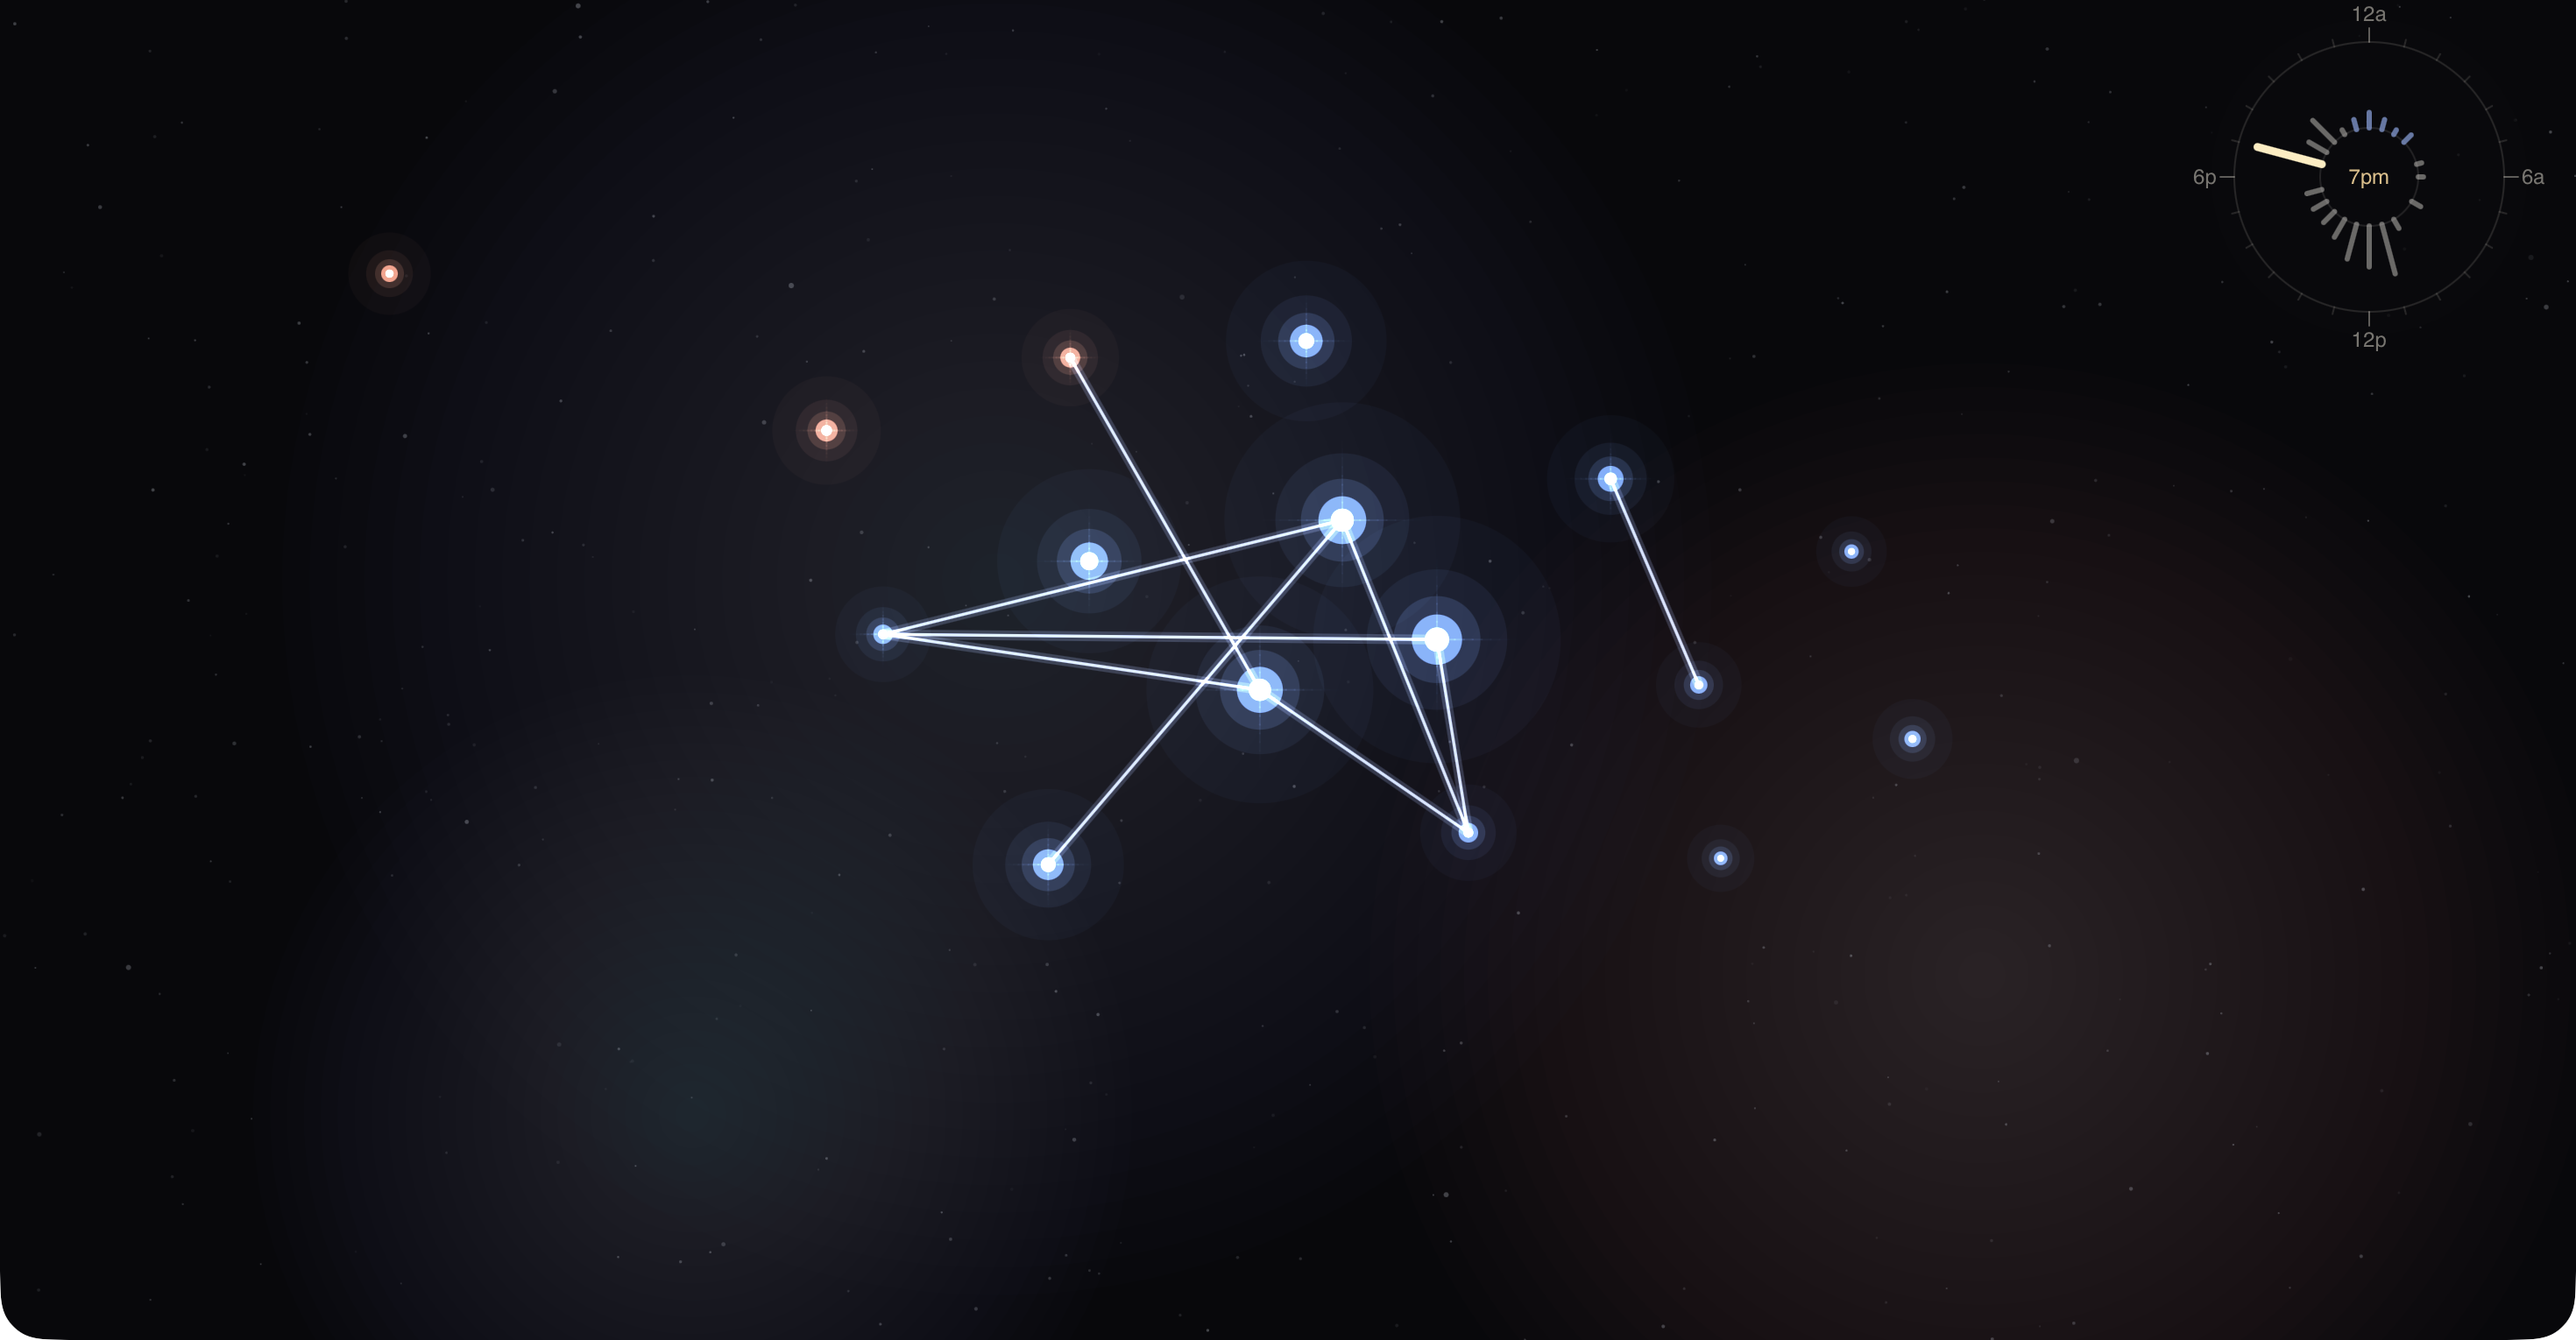
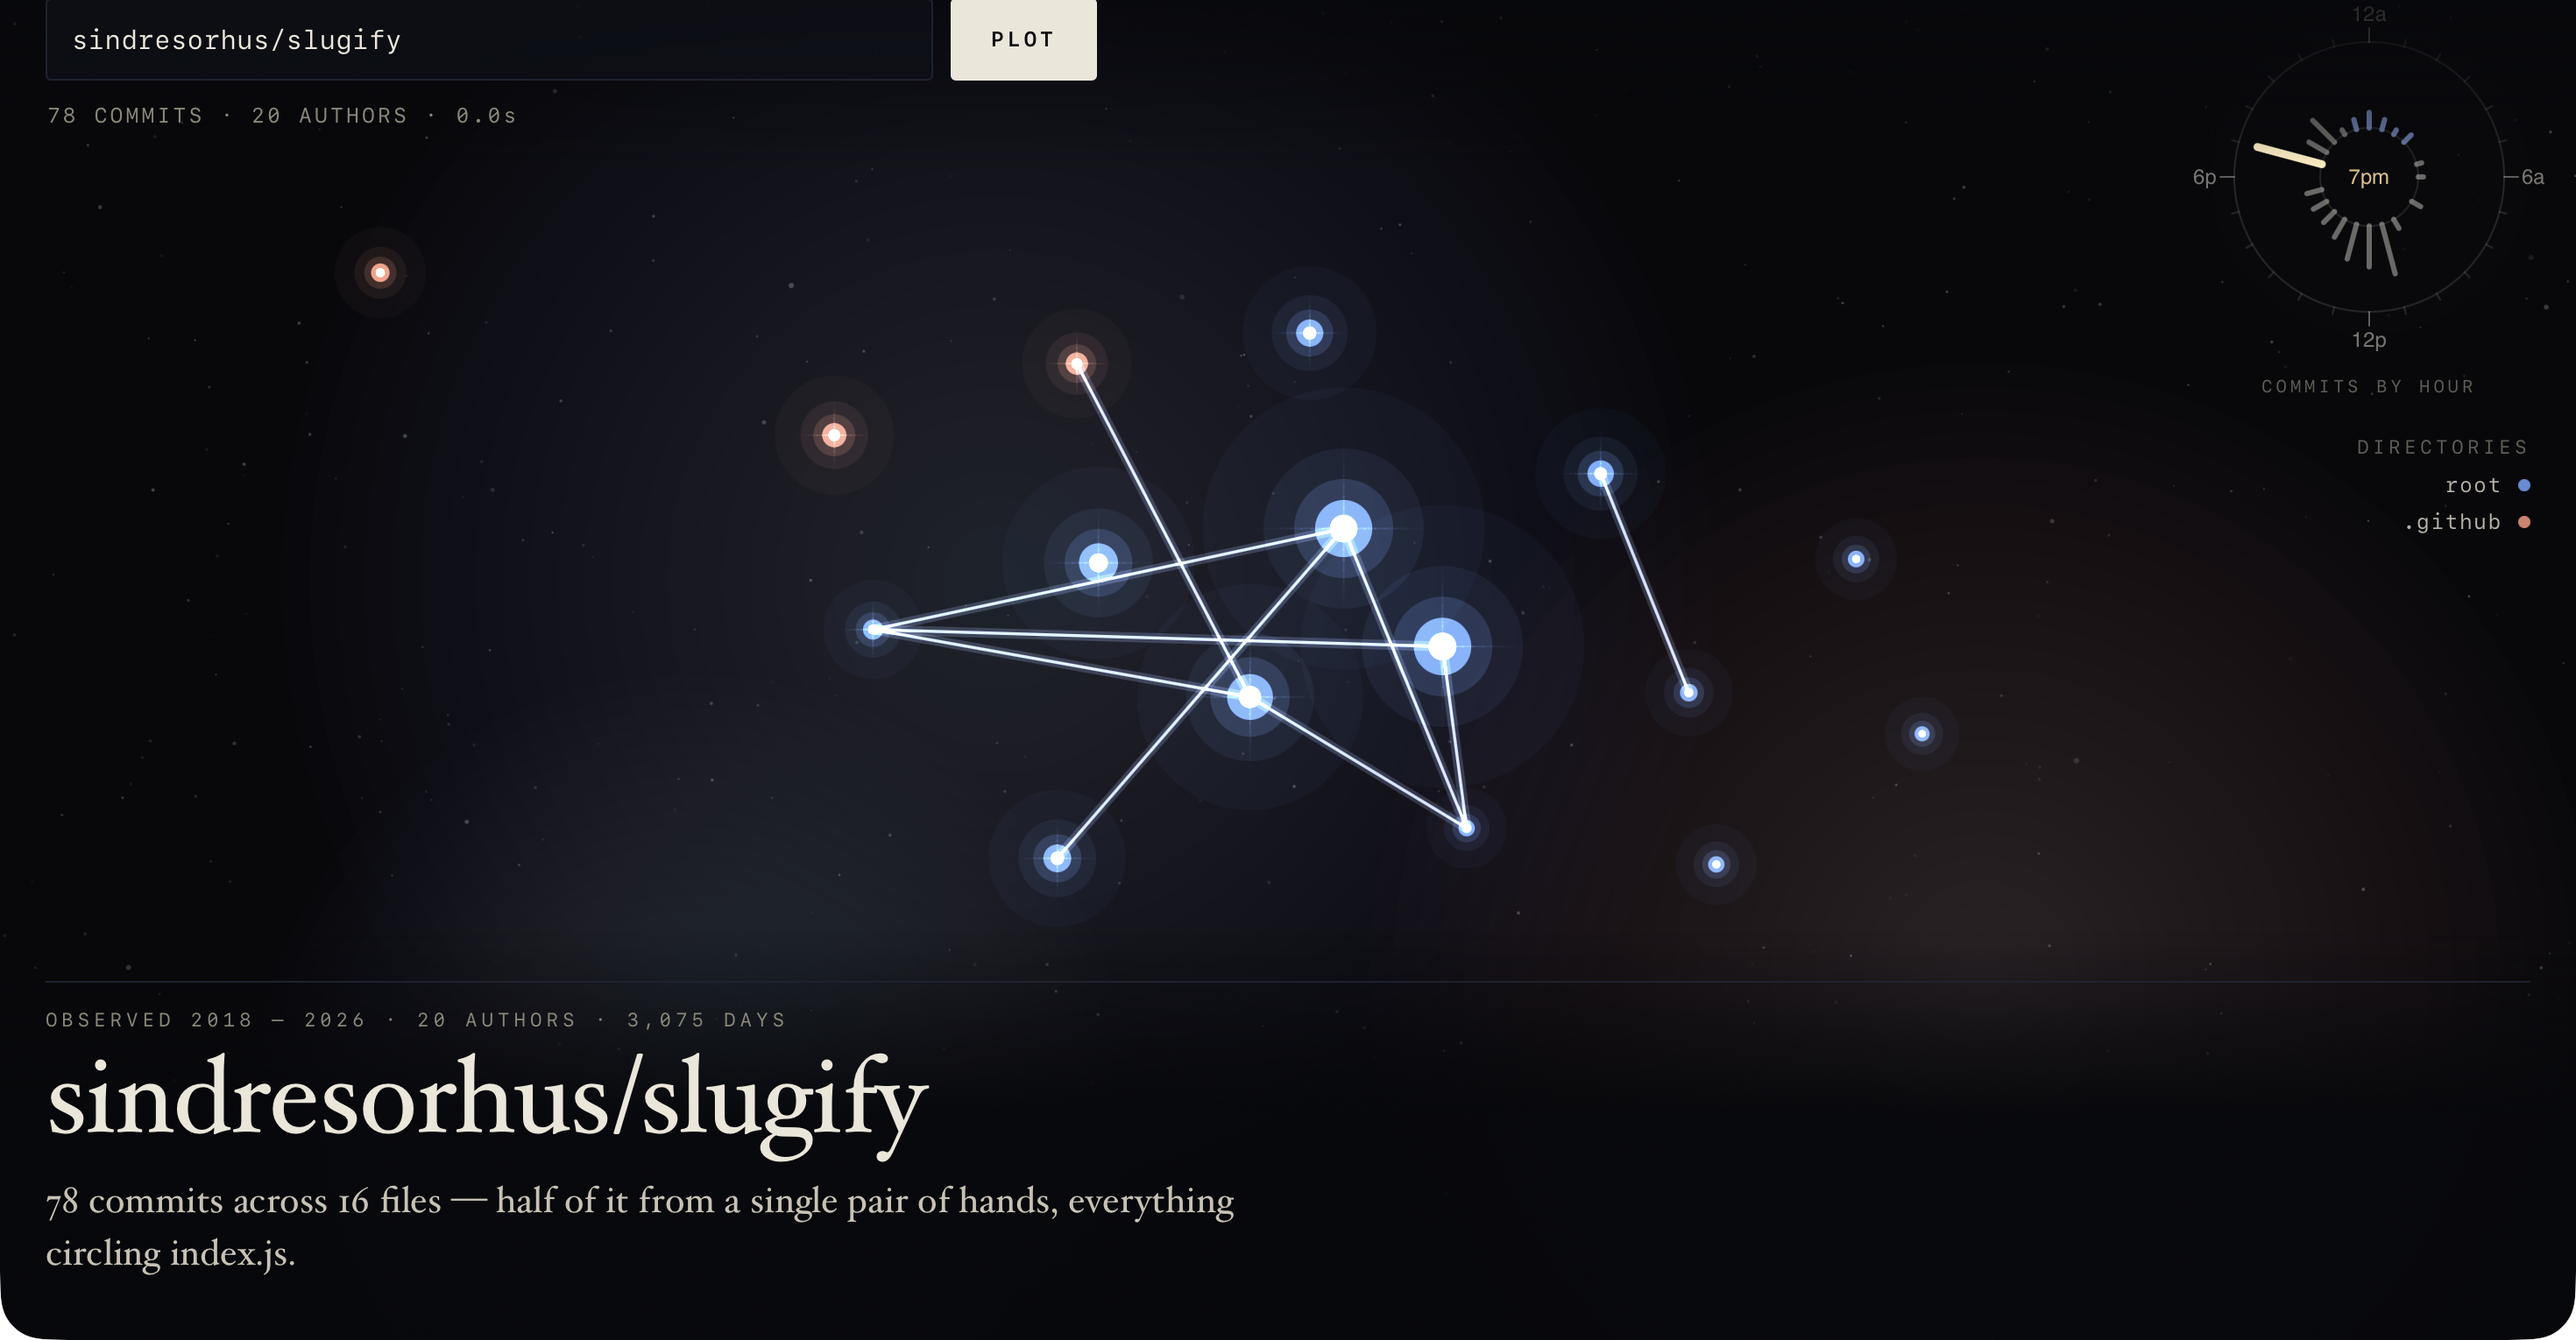
Fix the blank page, the raw git errors, and the narrow-window blob
A pass through the whole thing as a user rather than as its author.

Blank page on load. The chrome had an entrance animation, and anything
animating from opacity 0 is a trap here: once Safari starts the animation
it owns the property, and it throttles animations in a window that is not
visible, so the element freezes at opacity 0. Removing the fill-mode did
not fix it -- only removing the animation does. Symptom was a page with no
input, no button and no error text, which looks exactly like a crash. A
user who mistyped a repo name saw nothing at all.

Errors were raw git stderr: five lines repeating the whole clone command
including absolute paths on this machine. Unreadable on a projector and a
small privacy leak. Now: "No repository called x/y. Check the spelling."
Also sets GIT_TERMINAL_PROMPT=0 -- a private repo used to make git sit
waiting for a username on a terminal nobody is watching, so the request
hung until the 120s timeout instead of failing.

Empty state was an input on a starfield: nothing said what the tool was or
what the picture meant. It now names the piece, explains the metaphor, and
offers three repos that plot on one click.

Narrow windows rendered a single saturated white blob, because star radius
is in absolute pixels while the layout scales to the viewport -- the sky
shrank and the stars did not, so they overlapped and the additive glow
blew out. Radius now tracks the viewport. The dial and key, which have
[…]

diff --git a/public/style.css b/public/style.css
@@ -163,6 +163,59 @@ html, body {
   pointer-events: none;
 }
 
+/* ---------------------------------------------------------------- the empty state */
+
+#intro {
+  position: fixed;
+  left: 0; right: 0; bottom: 0;
+  padding: 30px 26px 32px;
+  z-index: 2;
+  background: linear-gradient(to top, rgba(7,8,12,.96) 55%, rgba(7,8,12,0));
+}
+
+#introRule {
+  margin: 0 0 20px;
+  border-top: 1px solid var(--rule);
+}
+
+#intro h1 {
+  margin: 0 0 12px;
+  font-size: clamp(30px, 4.6vw, 62px);
+  font-weight: 400;
+  line-height: 1;
+  letter-spacing: -0.012em;
+}
+
+#intro .lede {
+  margin: 0 0 16px;
+  max-width: 54ch;
+  font-size: clamp(16px, 1.55vw, 21px);
+  line-height: 1.45;
+  color: #c9c2b4;
+}
+
+#intro .try {
+  margin: 0;
+  font: 12px/1.9 var(--mono);
+  letter-spacing: .14em;
+  text-transform: uppercase;
+  color: var(--muted);
+}
+
+/* Type-in-the-box is the slow path. These are the same action, one click away. */
+#intro .try button {
+  font: inherit;
+  letter-spacing: inherit;
+  padding: 0;
+  color: var(--paper);
+  background: none;
+  border: 0;
+  border-bottom: 1px solid #3a4152;
+  cursor: pointer;
+}
+#intro .try button:hover { color: var(--ember); border-bottom-color: var(--ember); }
+#intro .try button:focus-visible { outline: 1px solid var(--ember); outline-offset: 3px; }
+
 /* ---------------------------------------------------------------- the plate caption */
 
 #caption {
@@ -222,26 +275,37 @@ html, body {
 #tooltip b { font-weight: 600; color: var(--paper); }
 #tooltip span { color: var(--muted); }
 
-/* ---------------------------------------------------------------- arrival
+/* ---------------------------------------------------------------- no arrival animation
 
-   A rise on load. Deliberately with NO fill-mode and NO delay.
+   ⛔ Do not add an entrance animation to the chrome. This was tried twice and it produced
+   a blank page both times.
 
-   The first version used `both` and a stagger, which holds the from-keyframe (opacity 0)
-   until the animation *starts* -- and Safari defers CSS animations in a window that is not
-   visible. Load the page while the window is behind something and the animation never
-   starts, so the entire interface sits at opacity 0 forever: no input, no title, no
-   caption, just the canvas. Without a fill-mode the elements are visible by default and
-   the animation is pure enhancement, which is the only safe way round for something that
-   has to come up on a projector. */
+   Anything that animates from `opacity: 0` on load is a trap here, and removing the
+   fill-mode does not save it: once Safari has *started* the animation it owns the
+   property, and it throttles animations in a window that is not visible -- so the element
+   freezes at opacity 0 and stays there. The result is a page with no input, no button, no
+   caption and no error message, which looks exactly like a crash and is unusable. A user
+   who mistypes a repo name sees nothing at all.
 
-@keyframes rise {
-  from { opacity: 0; transform: translateY(9px); }
-  to   { opacity: 1; transform: none; }
-}
-
-#chrome, #caption, #key, #dialLabel { animation: rise .7s var(--ease); }
+   The sky already runs its own reveal on the canvas. That is the arrival; the instruments
+   around it just need to be there. */
 
 @media (prefers-reduced-motion: reduce) {
-  #chrome, #caption, #key, #dialLabel { animation: none; }
   #src, #form button { transition: none; }
+}
+
+/* ---------------------------------------------------------------- narrow
+
+   The instrument column has nowhere to go below this: the dial lands on the input and the
+   key lands on the sky. The sketch stops drawing the dial at the same breakpoint. A dial
+   you cannot read is worse than no dial. */
+
+@media (max-width: 759px) {
+  #key, #dialLabel { display: none; }
+  #chrome { padding: 16px 18px; }
+  #form { flex-wrap: wrap; }
+  #src { min-width: 0; }
+  #caption, #intro { padding: 22px 18px 24px; }
+  #observed { font-size: 10px; letter-spacing: .16em; }
+  #intro .try { line-height: 2.1; }
 }

diff --git a/public/sketch.js b/public/sketch.js
@@ -15,6 +15,7 @@ const tooltip = el('tooltip')
 const keyEl = el('key')
 const keyList = el('keyList')
 const dialLabel = el('dialLabel')
+const intro = el('intro')
 
 const STILL = window.matchMedia('(prefers-reduced-motion: reduce)').matches
 
@@ -113,7 +114,7 @@ function buildLayout(data, w, h) {
   for (const n of nodes) n.spike = n.r > spikeCut
 
   relax(nodes, links, Math.min(w, h))
-  fit(nodes, w - KEY_COLUMN, h)   // the instrument column is not canvas the sky can use
+  fit(nodes, w - (w < NARROW_AT ? 0 : KEY_COLUMN), h)   // the instrument column is not sky
   return { nodes, links, legend }
 }
 
@@ -234,10 +235,20 @@ function fit(nodes, w, h) {
   // how far apart two stars are.
   const stretch = Math.min(sx / scale, 1.5)
 
+  // Star radius is in absolute pixels, so a narrow window shrinks the sky and leaves the
+  // stars full size: they overlap, the additive glow saturates, and a 90-file repo renders
+  // as one white blob.
+  //
+  // Driven off the viewport, deliberately, not off `scale`. Tying it to `scale` also
+  // shrank the stars on a wide screen -- where nothing was wrong -- and drained the
+  // picture. 1 at the size this was designed at and below, never more.
+  const rScale = Math.max(0.45, Math.min(1, Math.min(w, h * 1.7) / 1100))
+
   const cx = (minX + maxX) / 2, cy = (minY + maxY) / 2
   for (const n of nodes) {
     n.x = (n.x - cx) * scale * stretch
     n.y = (n.y - cy) * scale
+    n.r *= rScale
   }
 }
 
@@ -327,7 +338,7 @@ function draw() {
 
   // The dial is drawn here because it is part of the plate; the key that explains the
   // colours is DOM, where it can be set in real type instead of canvas fallback glyphs.
-  drawClock(age)
+  if (!isNarrow()) drawClock(age)
 
   trackHover(age, drift)
 }
@@ -343,8 +354,14 @@ const MONO = 'ui-monospace, "SF Mono", Menlo, monospace'
 // The dial and the key occupy a column down the right edge. Centring the sky on the
 // viewport therefore centres it on nothing -- it leaves a dead third on the left and
 // crowds the instruments on the right. Offset it by half that column.
+// Below this the instrument column has nowhere to go: the dial lands on top of the input
+// and the key lands on top of the sky. Narrow means the picture only, which is the honest
+// degradation -- a dial you cannot read is worse than no dial.
+const NARROW_AT = 760
+const isNarrow = () => width < NARROW_AT
+
 const KEY_COLUMN = 156
-const skyX = () => width / 2 - KEY_COLUMN / 2
+const skyX = () => width / 2 - (isNarrow() ? 0 : KEY_COLUMN / 2)
 
 // The chrome is not symmetric -- the input and status line take the top, the plate caption
 // takes considerably more at the bottom -- so a sky centred on the viewport runs stars
@@ -519,6 +536,14 @@ form.addEventListener('submit', async (e) => {
   await plot(src)
 })
 
+// The three example repos in the empty state.
+intro.addEventListener('click', (e) => {
+  const repo = e.target.closest('button')?.dataset.repo
+  if (!repo) return
+  srcInput.value = repo
+  plot(repo)
+})
+
 async function plot(src) {
   const button = form.querySelector('button')
   button.disabled = true
@@ -546,7 +571,13 @@ async function plot(src) {
     el('observed').textContent = observedLine(data)
     renderKey(state.legend)
     dialLabel.hidden = false
+    intro.hidden = true
     caption.hidden = false
+
+    // Keep the address bar honest, so a reload redraws the same sky and the link can be
+    // handed to someone else. replaceState rather than pushState: plotting four repos in a
+    // demo should not bury the page under four history entries.
+    history.replaceState(null, '', `?src=${encodeURIComponent(src)}`)
     // Cased here rather than with text-transform, so the unit on the timing stays a
     // lowercase "s" instead of being shouted as "0.1S".
     statusEl.textContent = `${data.counts.commits.toLocaleString()} COMMITS · ${data.counts.authors} AUTHOR${data.counts.authors === 1 ? '' : 'S'} · ${(data.tookMs / 1000).toFixed(1)}s`

diff --git a/public/index.html b/public/index.html
@@ -27,6 +27,21 @@
   <ul id="keyList"></ul>
 </aside>
 
+<!-- Sits where the caption will sit, so plotting replaces it in place rather than moving
+     the eye somewhere new. An empty screen is an invitation to act, so it names the piece,
+     says what the picture means, and offers three repos you can plot without typing. -->
+<section id="intro">
+  <p id="introRule"></p>
+  <h1>Commit Constellation</h1>
+  <p class="lede">Every file is a star, sized by how often it changes. A line between two
+    stars means those files keep changing in the same commit.</p>
+  <p class="try">Start with
+    <button type="button" data-repo="expressjs/express">expressjs/express</button>,
+    <button type="button" data-repo="sveltejs/svelte">sveltejs/svelte</button> or
+    <button type="button" data-repo="sindresorhus/slugify">sindresorhus/slugify</button>
+  </p>
+</section>
+
 <footer id="caption" hidden>
   <p id="observed"></p>
   <h1 id="title"></h1>
